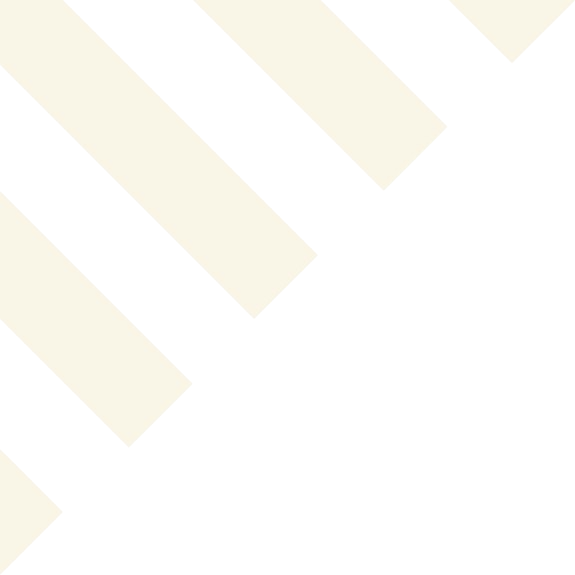
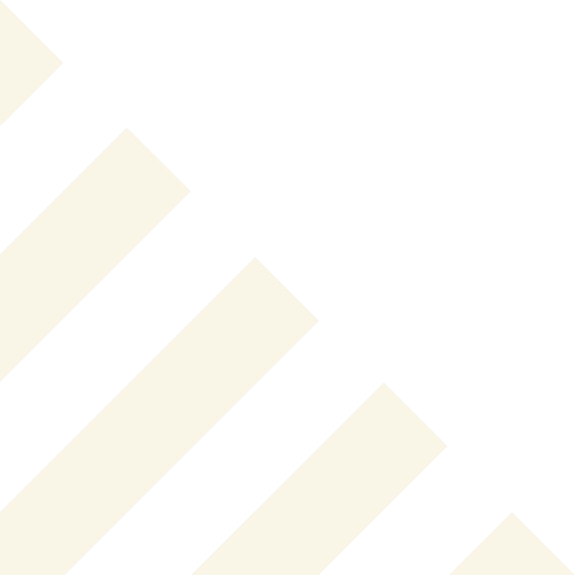
Sobre meia tela finalizado

diff --git a/src/Containers/Sobre/index.tsx b/src/Containers/Sobre/index.tsx
@@ -1,19 +1,38 @@
 import ContainerMaior from '../../Components/Layouts/ContainerMaior'
-import ImgBody from '../../Components/Layouts/Hero/ImgBody/index'
+import ImgBody from '../../Components/Layouts/ImgBody/index'
 import TituloSite from '../../Components/Layouts/Hero/TituloSite'
+import ImgLines from '../../Components/Layouts/ImgLines'
+import ImgStack from '../../Components/Layouts/ImgStack'
 import Paragrafo from '../../Components/Layouts/Paragrafo'
 import MeiaTela from '../../Components/Layouts/Sobre/MeiaTela'
-import { ConfigDisplayTexto, SobreEstilo } from '../Sobre/styles'
+import {
+  ConfigDisplayTexto,
+  SobreEstilo,
+  DisplayFlexCenter
+} from '../Sobre/styles'
 
 export type SobreProps = {
   id?: string
   backgroundColor?: string
+  display?: string
+  justifyContent?:
+    | 'flex-start'
+    | 'flex-end'
+    | 'center'
+    | 'space-between'
+    | 'space-around'
+    | 'space-evenly'
 }
 
 const Sobre = ({ id }: SobreProps) => {
   return (
     <>
-      <SobreEstilo id={id} backgroundColor="#fff">
+      <SobreEstilo
+        display="flex"
+        justifyContent="center"
+        id={id}
+        backgroundColor="#fff"
+      >
         <ContainerMaior>
           <ConfigDisplayTexto>
             <Paragrafo tipo="secundario" paddingBottom="4px" fontSize={20}>
@@ -45,8 +64,16 @@ const Sobre = ({ id }: SobreProps) => {
           />
         </ContainerMaior>
       </SobreEstilo>
-      <SobreEstilo>
-        <MeiaTela tipo="secundario" padding="130px 0 130px 12vw">
+      <SobreEstilo display="block" justifyContent="flex-start">
+        <ImgLines
+          tipo="esquerdoBaixo"
+          src="https://raw.githubusercontent.com/rafasilverios/EBAC-Engenheiro-Front-end/main/M%C3%B3dulo%2020%20-%20Construindo%20e-mails%20com%20HTML/Aulas/images/riscos_brancos.png"
+        />
+        <ImgLines
+          tipo="direitoCima"
+          src="https://raw.githubusercontent.com/rafasilverios/EBAC-Engenheiro-Front-end/main/M%C3%B3dulo%2020%20-%20Construindo%20e-mails%20com%20HTML/Aulas/images/riscos.png"
+        />
+        <MeiaTela tipo="secundario" padding="130px 0 0 12vw">
           <ConfigDisplayTexto>
             <TituloSite
               tipo="principal"
@@ -59,21 +86,35 @@ const Sobre = ({ id }: SobreProps) => {
               Como construímos um Site para sua Empresa?
             </TituloSite>
             <Paragrafo tipo="principal" fontSize={16} margin="0 65px 0 0">
-              Em nossa abordagem de criação de sites, priorizamos a sua visão e
-              objetivos. Começamos por entender completamente as suas
-              necessidades e metas. Isso nos permite criar um site personalizado
-              que reflete a identidade da sua marca e alcança os resultados
-              desejados. Quando se trata de desenvolvimento, usamos as mais
-              recentes tecnologias e práticas recomendadas para garantir que o
-              seu site seja rápido, seguro e eficiente. Além disso,
+              Em nossa abordagem de criação de sites para empresas, priorizamos
+              a sua visão e objetivos. Começamos por entender completamente as
+              suas necessidades e metas. Isso nos permite criar um site
+              personalizado que reflete a identidade da sua marca e alcança os
+              resultados desejados. Quando se trata de desenvolvimento, usamos
+              as mais recentes tecnologias e práticas recomendadas para garantir
+              que o seu site seja rápido, seguro e eficiente. Além disso,
               implementamos recursos interativos e funcionais para envolver o
               seu público.
             </Paragrafo>
           </ConfigDisplayTexto>
         </MeiaTela>
-        <MeiaTela padding="130px 12vw 130px 0">
-          <Paragrafo margin="0 0 0 65px">Teste</Paragrafo>
-        </MeiaTela>
+        <DisplayFlexCenter>
+          <ImgStack
+            padding="8px"
+            src="https://raw.githubusercontent.com/rafasilverios/EBAC-Engenheiro-Front-end/main/M%C3%B3dulo%2020%20-%20Construindo%20e-mails%20com%20HTML/Aulas/images/logo-wordpress.png"
+          />
+          <ImgStack
+            padding="8px"
+            src="https://raw.githubusercontent.com/rafasilverios/EBAC-Engenheiro-Front-end/main/M%C3%B3dulo%2020%20-%20Construindo%20e-mails%20com%20HTML/Aulas/images/html-5.png"
+          />
+          <ImgStack
+            padding="8px"
+            src="https://raw.githubusercontent.com/rafasilverios/EBAC-Engenheiro-Front-end/main/M%C3%B3dulo%2020%20-%20Construindo%20e-mails%20com%20HTML/Aulas/images/css-3.png"
+          />
+          <ImgStack src="https://raw.githubusercontent.com/rafasilverios/EBAC-Engenheiro-Front-end/main/M%C3%B3dulo%2020%20-%20Construindo%20e-mails%20com%20HTML/Aulas/images/js.png" />
+          <ImgStack src="https://raw.githubusercontent.com/rafasilverios/EBAC-Engenheiro-Front-end/main/M%C3%B3dulo%2020%20-%20Construindo%20e-mails%20com%20HTML/Aulas/images/logo-typescript.png" />
+          <ImgStack src="https://raw.githubusercontent.com/rafasilverios/EBAC-Engenheiro-Front-end/main/M%C3%B3dulo%2020%20-%20Construindo%20e-mails%20com%20HTML/Aulas/images/logo-react.png" />
+        </DisplayFlexCenter>
       </SobreEstilo>
     </>
   )

diff --git a/src/Containers/Sobre/styles.ts b/src/Containers/Sobre/styles.ts
@@ -2,12 +2,14 @@ import styled from 'styled-components'
 import { SobreProps } from '.'
 
 export const SobreEstilo = styled.section<SobreProps>`
+  position: relative;
   background: ${(props) =>
     props.backgroundColor
       ? props.backgroundColor
       : 'linear-gradient(to right, #1d1f21 50%, #ffa928 50%);'};
-  display: flex;
+  display: ${(props) => props.display};
   align-items: center;
+  justify-content: ${(props) => props.justifyContent};
 
   @media (max-width: 1300px) {
     gap: 80px;
@@ -18,8 +20,11 @@ export const SobreEstilo = styled.section<SobreProps>`
   }
 
   @media (max-width: 820px) {
+    background: ${(props) =>
+      props.backgroundColor
+        ? props.backgroundColor
+        : 'linear-gradient(to bottom, #1d1f21 50%, #ffa928 50%);'};
     flex-flow: column wrap;
-    padding: 30vw 0 10vw 0;
   }
 `
 export const ConfigDisplayTexto = styled.div`
@@ -28,5 +33,29 @@ export const ConfigDisplayTexto = styled.div`
   justify-content: center;
 
   @media (max-width: 820px) {
+    display: block;
     padding: 0 30px;
+  }
+`
+export const DisplayFlexCenter = styled.div`
+  display: flex;
+  align-items: center;
+  flex-wrap: wrap;
+  justify-content: center;
+  gap: 30px;
+  padding-bottom: 130px;
+
+  & > div {
+    width: 33.33%;
+    box-sizing: border-box;
+    padding: 0 15px;
+    margin-bottom: 20px;
+  }
+
+  @media (max-width: 1280px) {
+    justify-content: center;
+    margin-top: 100px;
+    padding-bottom: 65px;
+  }
+}
 `

diff --git a/src/Components/Layouts/ImgLines/styles.ts b/src/Components/Layouts/ImgLines/styles.ts
@@ -1,0 +1,16 @@
+import styled from 'styled-components'
+import { ImgLinesProps } from '.'
+
+export const ImgLinesEstilo = styled.img<ImgLinesProps>`
+  position: absolute;
+  top: ${(props) => (props.tipo === 'direitoCima' ? 0 : 'none')};
+  right: ${(props) => (props.tipo === 'direitoCima' ? 0 : 'none')};
+  bottom: ${(props) => (props.tipo === 'esquerdoBaixo' ? 0 : 'none')};
+  left: ${(props) => (props.tipo === 'esquerdoBaixo' ? 0 : 'none')};
+  width: 150px;
+  height: auto;
+
+  @media (max-width: 1180px) {
+    display: none;
+  }
+`

diff --git a/src/Containers/Hero/index.tsx b/src/Containers/Hero/index.tsx
@@ -1,6 +1,6 @@
 import BotaoBody from '../../Components/Layouts/BotaoBody'
 import ArrowDown from '../../Components/Layouts/Hero/ArrowDown'
-import ImgBody from '../../Components/Layouts/Hero/ImgBody/index'
+import ImgBody from '../../Components/Layouts/ImgBody/index'
 import TituloSite from '../../Components/Layouts/Hero/TituloSite'
 import Paragrafo from '../../Components/Layouts/Paragrafo'
 import { ConfigDisplayTexto, HeroEstilo, Quadrado } from './styles'

diff --git a/src/Components/Layouts/Sobre/MeiaTela/styles.ts b/src/Components/Layouts/Sobre/MeiaTela/styles.ts
@@ -2,6 +2,16 @@ import styled from 'styled-components'
 import { MeiaTelaProps } from '.'
 
 export const MeiaTelaEstilo = styled.div<MeiaTelaProps>`
+  width: 50%;
   max-width: 50%;
+  display: flex;
+  flex-flow: column wrap;
   padding: ${(props) => props.padding};
+
+  @media (max-width: 820px) {
+    width: 100%;
+    max-width: 100%;
+    height: 50%;
+    max-height: 50%;
+    padding: 65px 0;
 `

diff --git a/src/Components/Layouts/ImgStack/style.ts b/src/Components/Layouts/ImgStack/style.ts
@@ -1,6 +1,10 @@
 import styled from 'styled-components'
+import { ImgStackProps } from '.'
 
-export const ImgStackEstilo = styled.img`
-  width: 150px;
+export const ImgStackEstilo = styled.img<ImgStackProps>`
+  padding: ${(props) => props.padding};
+  background-color: ${(props) => props.theme.corFonteClara};
+  width: 134px;
   height: auto;
+  margin-top: 64px;
 `

diff --git a/src/Components/Layouts/ImgStack/index.tsx b/src/Components/Layouts/ImgStack/index.tsx
@@ -1,9 +1,12 @@
 import { ImgStackEstilo } from './style'
 
-type ImgStackProps = {
+export type ImgStackProps = {
   src: string
+  padding?: string
 }
 
-const ImgStack = ({ src }: ImgStackProps) => <ImgStackEstilo src={src} />
+const ImgStack = ({ src, padding }: ImgStackProps) => (
+  <ImgStackEstilo src={src} padding={padding} />
+)
 
 export default ImgStack

diff --git a/src/Components/Layouts/ContainerMaior/styles.ts b/src/Components/Layouts/ContainerMaior/styles.ts
@@ -1,11 +1,11 @@
 import styled from 'styled-components'
 
 export const ContainerMaiorEstilo = styled.div`
-  width: 1480px;
+  width: 1460px;
   display: flex;
-  justify-content: center;
+  justify-content: space-between;
   gap: 40px;
-  padding: 130px 12vw;
+  padding: 130px 32px;
 `
 
 export default ContainerMaiorEstilo

diff --git a/src/Components/Layouts/ImgLines/index.tsx b/src/Components/Layouts/ImgLines/index.tsx
@@ -1,0 +1,12 @@
+import { ImgLinesEstilo } from './styles'
+
+export type ImgLinesProps = {
+  src: string
+  tipo: 'esquerdoBaixo' | 'direitoCima'
+}
+
+const ImgLines = ({ src, tipo }: ImgLinesProps) => (
+  <ImgLinesEstilo src={src} tipo={tipo} />
+)
+
+export default ImgLines

diff --git a/src/Containers/Hero/styles.ts b/src/Containers/Hero/styles.ts
@@ -1,7 +1,7 @@
 import styled from 'styled-components'
 
 export const HeroEstilo = styled.section`
-  min-height: 85vh;
+  min-height: 100vh;
   padding: 4.25vw 0;
   background-color: ${(props) => props.theme.corDeFundo};
   display: flex;

diff --git a/src/styles.ts b/src/styles.ts
@@ -5,6 +5,7 @@ const EstiloGlobal = createGlobalStyle`
     margin: 0;
     padding: 0;
     font-family: 'Inter', sans-serif;
+    box-sizing: border-box;
   }
 
   html {
